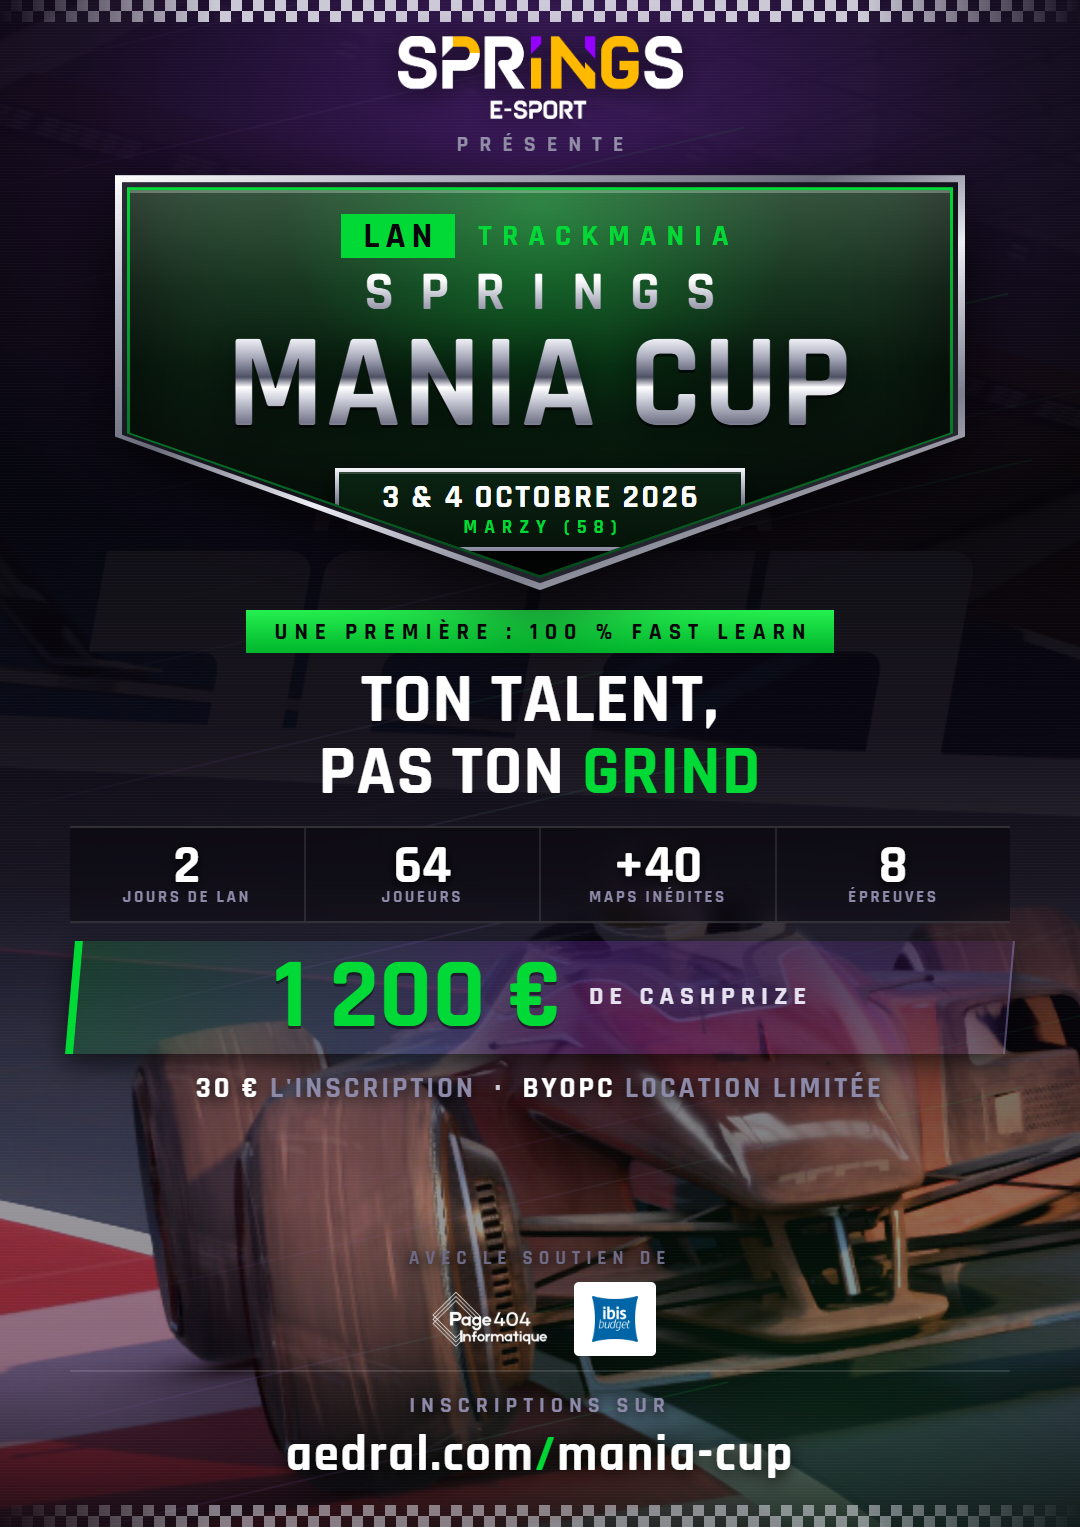
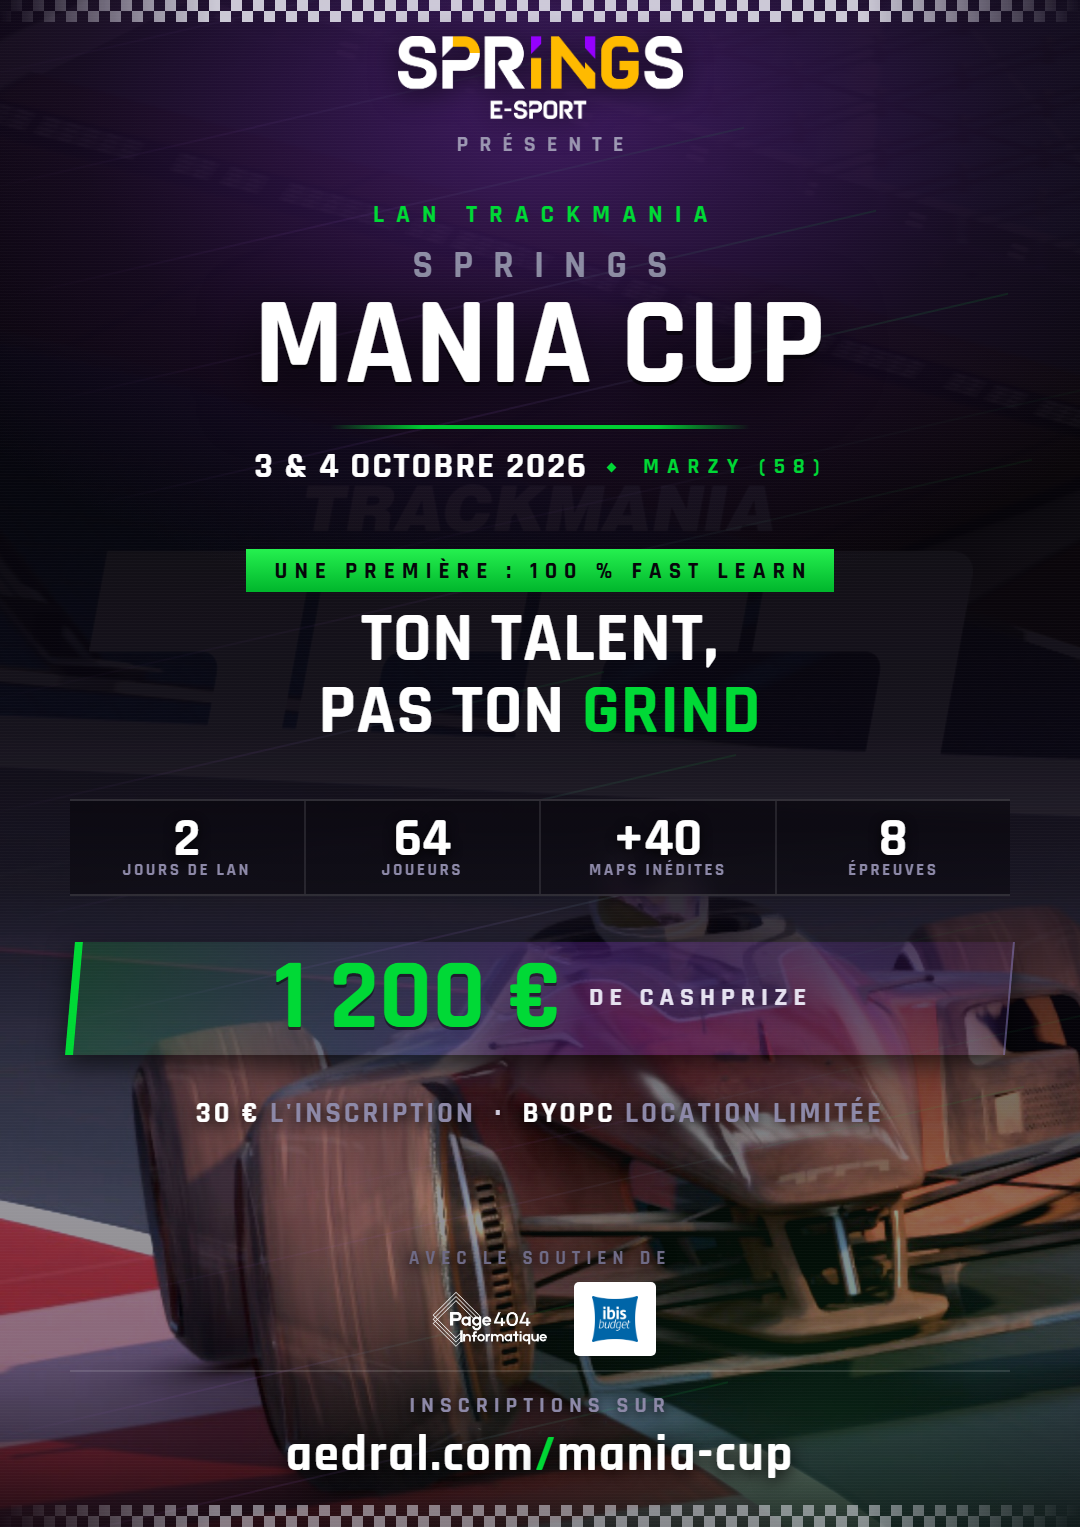
design(mania-cup): nouvelle affiche, sans l'écusson
Plusieurs personnes ont dit à Matt que l'écusson du haut leur faisait penser à
la ZRT, une autre compétition. La forme elle-même était en cause — un blason à
pointe basse est un signe très employé en esport — donc elle est remplacée, pas
retouchée.

Le titre est désormais centré comme le reste de l'affiche, souligné d'un trait
vert qui s'estompe aux deux bouts : il reprend l'idée de la barre sans jamais
refermer de contour autour du texte.

Retirer l'écusson libérait près de 400 px de hauteur, et le premier essai les
laissait en vide : mesuré, il restait 281 px entre la dernière ligne de texte et
les sponsors, d'où l'impression de tout avoir tassé en haut. Ils sont rendus aux
intervalles — le contenu descend maintenant à 1131 px au lieu de 954.

Le générateur produit directement cette version : régénérer l'affiche ne peut
plus ressortir l'ancien blason.

diff --git a/scripts/affiche-mania-cup/build_affiche.py b/scripts/affiche-mania-cup/build_affiche.py
@@ -79,50 +79,32 @@ html, body { background:#000; }
 .top img { width:285px; filter:drop-shadow(0 4px 14px rgba(0,0,0,.7)); }
 .top .p { margin-top:6px; font-size:22px; letter-spacing:11px; color:#9d98b3; text-indent:11px; }
 
-/* ---------- ÉCUSSON EN RELIEF ---------- */
-.crest { position:relative; margin:16px auto 0; width:850px;
-  filter:drop-shadow(0 20px 34px rgba(0,0,0,.8)); }
-.sh { clip-path:polygon(0 0, 100% 0, 100% 63%, 50% 100%, 0 63%); }
-/* couche 1 : arête métal claire */
-.sh1 { background:linear-gradient(158deg,#ffffff 0%, #b9bac8 16%, #6a6b7a 38%, #ecedf5 54%, #7d7e8d 74%, #ffffff 100%);
-  padding:7px; }
-/* couche 2 : creux sombre du biseau */
-.sh2 { background:linear-gradient(158deg,#2a2b36 0%, #101119 50%, #33343f 100%); padding:5px; }
-/* couche 3 : liseré vert lumineux */
-.sh3 { background:linear-gradient(180deg,#00D936 0%, #06802a 55%, #04471a 100%); padding:3px; }
-/* intérieur */
-.sh4 { position:relative; text-align:center; padding:24px 36px 126px;
-  background:
-    radial-gradient(ellipse at 50% 4%, rgba(0,217,54,.40) 0%, rgba(0,90,24,.12) 44%, rgba(6,10,7,0) 70%),
-    linear-gradient(178deg,#0f3018 0%, #08170d 56%, #050906 100%);
-  box-shadow: inset 0 3px 0 rgba(255,255,255,.28), inset 0 -60px 90px rgba(0,0,0,.75); }
-/* reflet verre */
-.sh4::before { content:''; position:absolute; left:0; right:0; top:0; height:46%;
-  background:linear-gradient(180deg, rgba(255,255,255,.17) 0%, rgba(255,255,255,.05) 55%, rgba(255,255,255,0) 100%); }
+/* ---------- TITRE ---------- */
+/* L'ecusson d'origine — un blason a pointe basse — faisait penser a la ZRT,
+   une autre competition : plusieurs personnes l'ont dit a l'organisateur.
+   La forme elle-meme etait en cause, on l'a donc remplacee et non retouchee.
+   Le trait sous le titre reprend son idee sans jamais refermer de contour. */
+.tt3 { position:relative; margin:40px auto 0; text-align:center; }
+.tt3 .kick { font-size:25px; letter-spacing:12px; text-indent:12px; color:#00D936; }
+.tt3 .springs { margin-top:16px; font-size:38px; letter-spacing:20px; text-indent:20px;
+  line-height:1; color:#8f8fa6; }
+.tt3 .maniacup { margin-top:4px; font-size:124px; line-height:.92; letter-spacing:1px;
+  color:#fff; filter:drop-shadow(0 4px 0 rgba(0,0,0,.55)) drop-shadow(0 14px 30px rgba(0,0,0,.8)); }
+/* Le trait reprend la barre de la variante B, mise a plat : il souligne le
+   titre sans jamais refermer une forme autour de lui. */
+.tt3 .rule { margin:22px auto 0; width:420px; height:4px;
+  background:linear-gradient(90deg, rgba(0,217,54,0) 0%, #00D936 22%, #00D936 78%, rgba(0,217,54,0) 100%); }
+.tt3 .when { margin-top:20px; display:flex; align-items:center; justify-content:center; gap:20px; }
+.tt3 .when .d { font-size:36px; letter-spacing:2px; text-indent:2px; color:#fff; white-space:nowrap; }
+.tt3 .when .dot { width:7px; height:7px; background:#00D936; transform:rotate(45deg); }
+.tt3 .when .p { font-size:22px; letter-spacing:8px; text-indent:8px; color:#00D936; white-space:nowrap; }
 
-.tm-kicker { position:relative; display:flex; align-items:center; justify-content:center; gap:14px; }
-.tm-kicker b { font-size:36px; letter-spacing:6px; color:#07050b; background:#00D936;
-  padding:5px 16px 3px; text-indent:6px; line-height:1; }
-.tm-kicker em { font-style:normal; font-size:30px; letter-spacing:10px; color:#00D936;
-  text-indent:10px; line-height:1; }
-.springs { position:relative; margin-top:8px; font-size:55px; letter-spacing:26px; text-indent:26px; line-height:1;
-  background:linear-gradient(180deg,#ffffff 24%, #b9b9c8 60%, #75758a 100%);
-  -webkit-background-clip:text; background-clip:text; color:transparent; }
-.maniacup { position:relative; margin-top:2px; font-size:134px; line-height:.94; letter-spacing:2px;
-  background:linear-gradient(180deg,
-    #ffffff 0%, #f2f3f9 12%, #a5a7b8 28%, #4e5164 43%,
-    #ffffff 51%, #cbcdd9 61%, #75778a 79%, #f4f6fb 100%);
-  -webkit-background-clip:text; background-clip:text; color:transparent;
-  filter:drop-shadow(0 3px 0 rgba(0,0,0,.6)) drop-shadow(0 9px 22px rgba(0,0,0,.75)); }
-
-/* bandeau de dates intégré au bas de l'écusson (rôle du "STADIUM" du logo TM) */
-.band { position:absolute; left:50%; transform:translateX(-50%); bottom:24px; width:50%;
-  background:linear-gradient(180deg,#f6f6fb 0%, #b6b7c5 22%, #55566a 52%, #d3d4e0 78%, #83849a 100%);
-  padding:4px; box-shadow:0 8px 18px rgba(0,0,0,.65); }
-.band .bi { text-align:center; background:linear-gradient(180deg,#0a2312 0%, #061309 100%); padding:9px 8px 7px;
-  box-shadow: inset 0 2px 0 rgba(255,255,255,.18); }
-.band .d { font-size:33px; line-height:1; letter-spacing:2.5px; text-indent:2.5px; color:#fff; white-space:nowrap; }
-.band .p { margin-top:1px; font-size:19px; letter-spacing:7px; text-indent:7px; color:#00D936; white-space:nowrap; }
+/* Les 281 px rendus aux intervalles : sans ca, tout le texte se serre dans la
+   moitie haute et le bas n'est plus qu'une photo. */
+.hook { margin-top:64px !important; }
+.stats { margin-top:52px !important; }
+.prize { margin-top:46px !important; }
+.pract { margin-top:40px !important; }
 
 /* ---------- ACCROCHE ---------- */
 .hook { margin-top:20px; text-align:center; }
@@ -188,16 +170,16 @@ html, body { background:#000; }
       <div class="p">PRÉSENTE</div>
     </div>
 
-    <div class="crest">
-      <div class="sh sh1"><div class="sh sh2"><div class="sh sh3"><div class="sh sh4">
-        <div class="tm-kicker"><b>LAN</b><em>TRACKMANIA</em></div>
-        <div class="springs">SPRINGS</div>
-        <div class="maniacup">MANIA CUP</div>
-        <div class="band"><div class="bi">
-          <div class="d">3 &amp; 4 OCTOBRE 2026</div>
-          <div class="p">MARZY (58)</div>
-        </div></div>
-      </div></div></div></div>
+    <div class="tt3">
+      <div class="kick">LAN TRACKMANIA</div>
+      <div class="springs">SPRINGS</div>
+      <div class="maniacup">MANIA CUP</div>
+      <div class="rule"></div>
+      <div class="when">
+        <div class="d">3 &amp; 4 OCTOBRE 2026</div>
+        <div class="dot"></div>
+        <div class="p">MARZY (58)</div>
+      </div>
     </div>
 
     <div class="hook">
